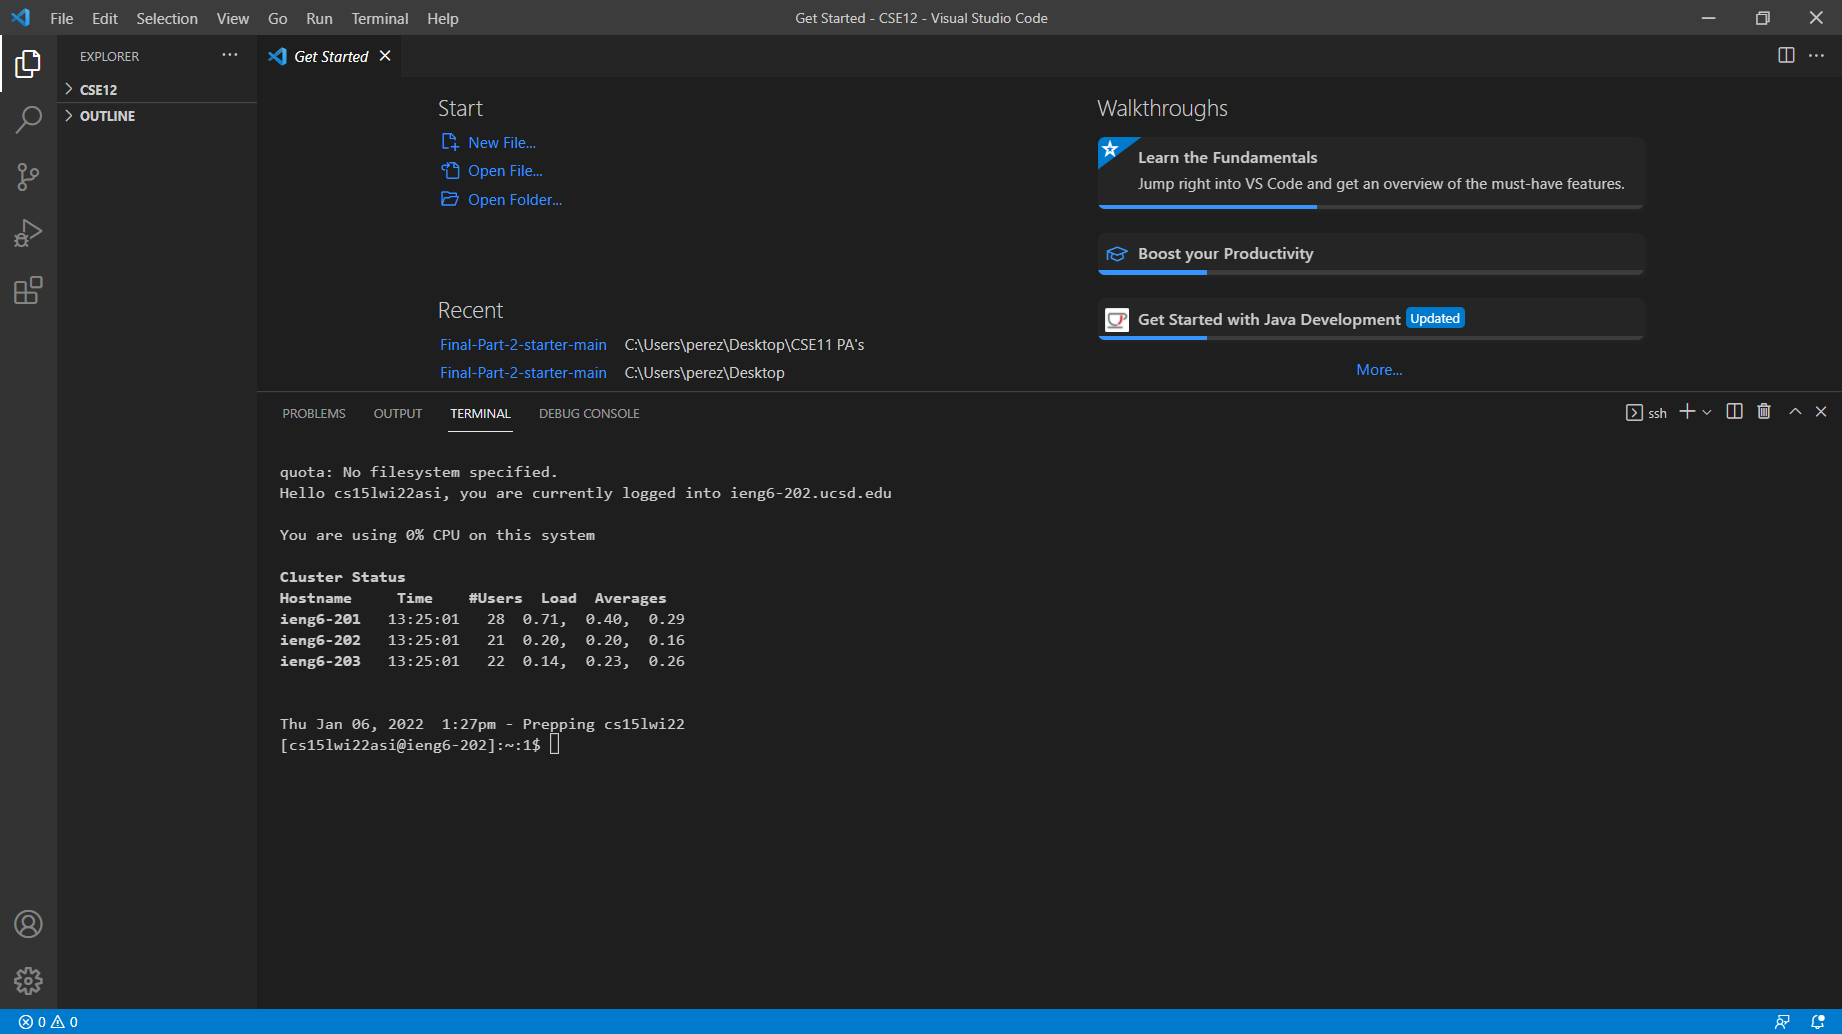
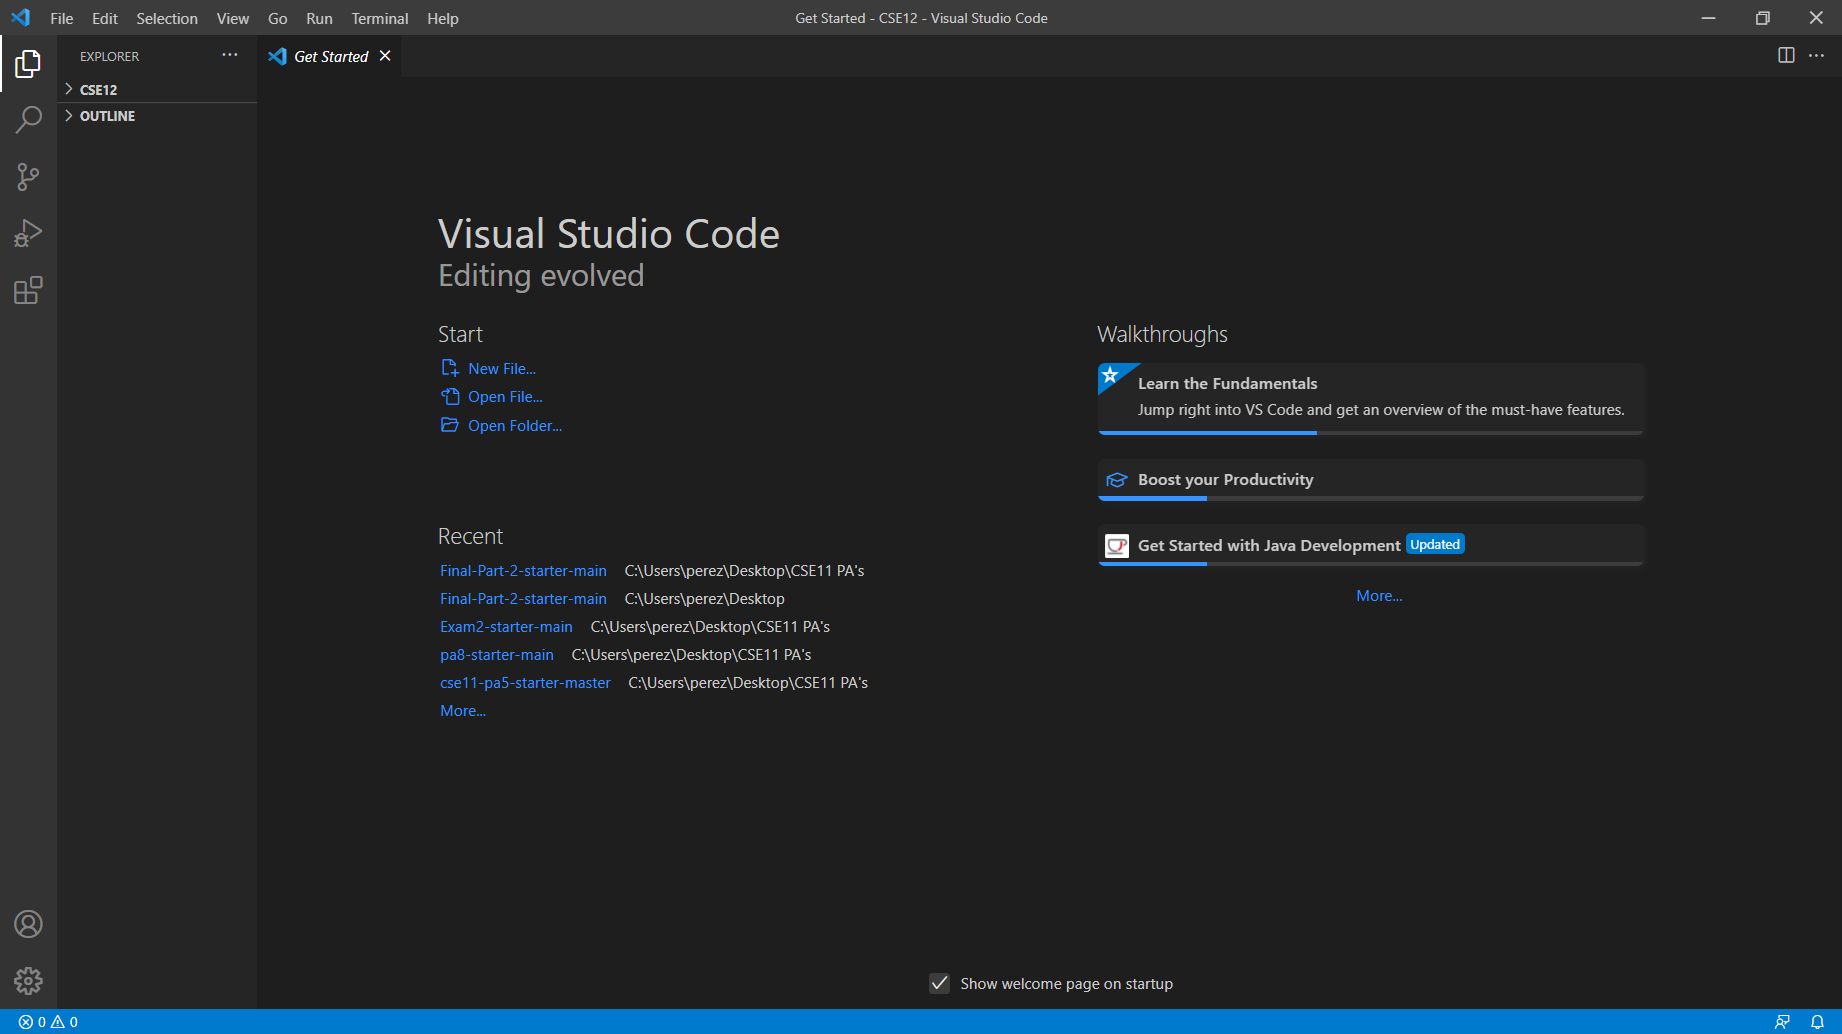
change of image

diff --git a/lab-report-1-week-2.md b/lab-report-1-week-2.md
@@ -10,8 +10,14 @@
 5. Setting an SSH Key
 7. Optimizing Remote Running
 ``` 
+---
+### Insatlling VScode:
+For the first step, we will need to install VScode, which is the editor that we will use. 
 
-This is a screenshot
+First we need to go to [https://code.visualstudio.com](https://code.visualstudio.com) and download it.
+
+
+it should look something like this once you open it:
 
 
 ![Image](Get_Started.png)
